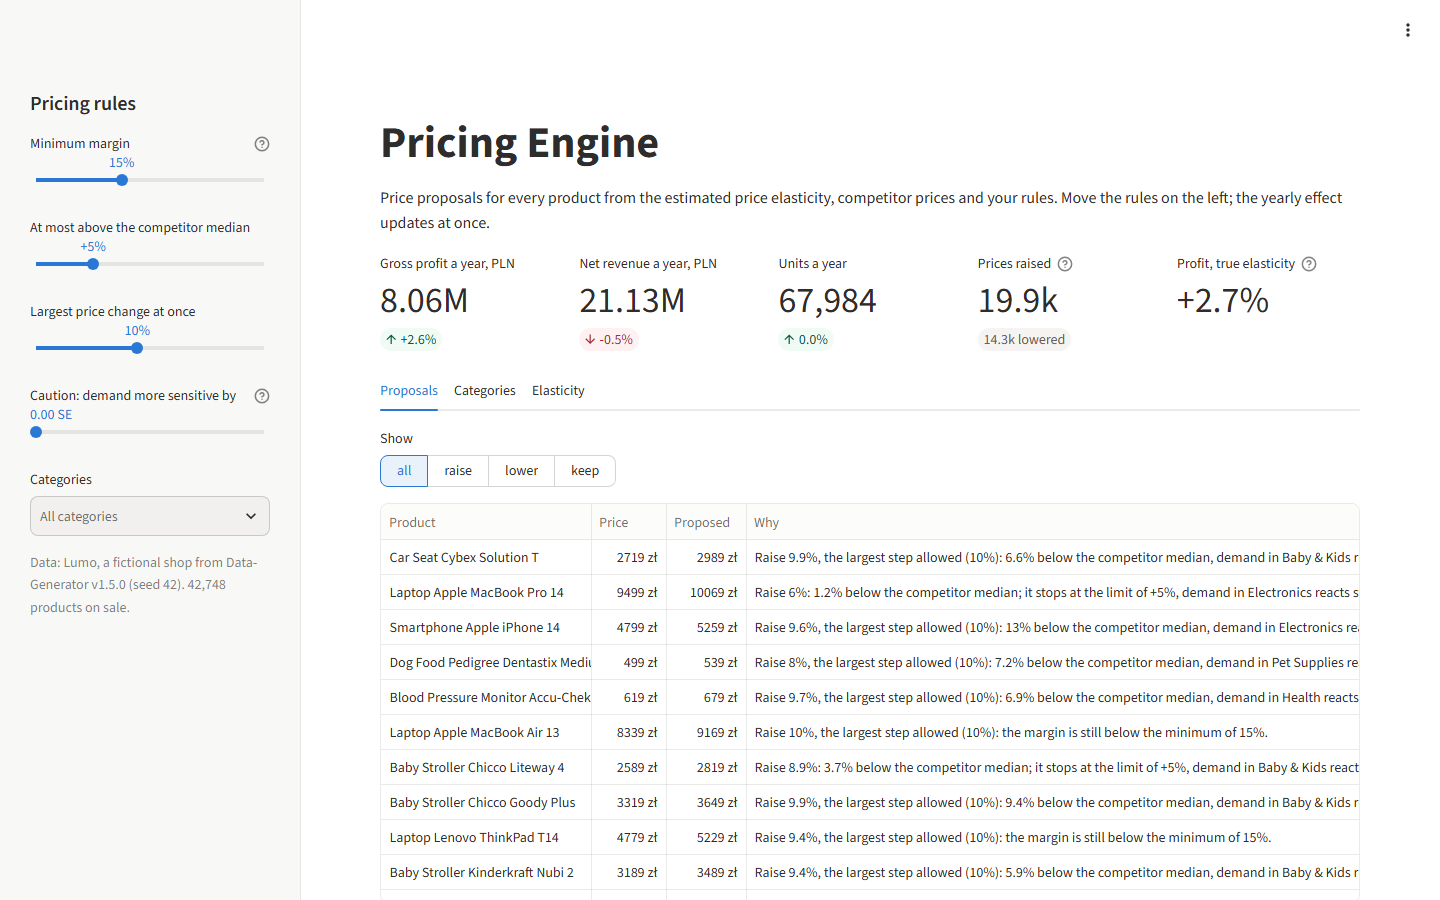
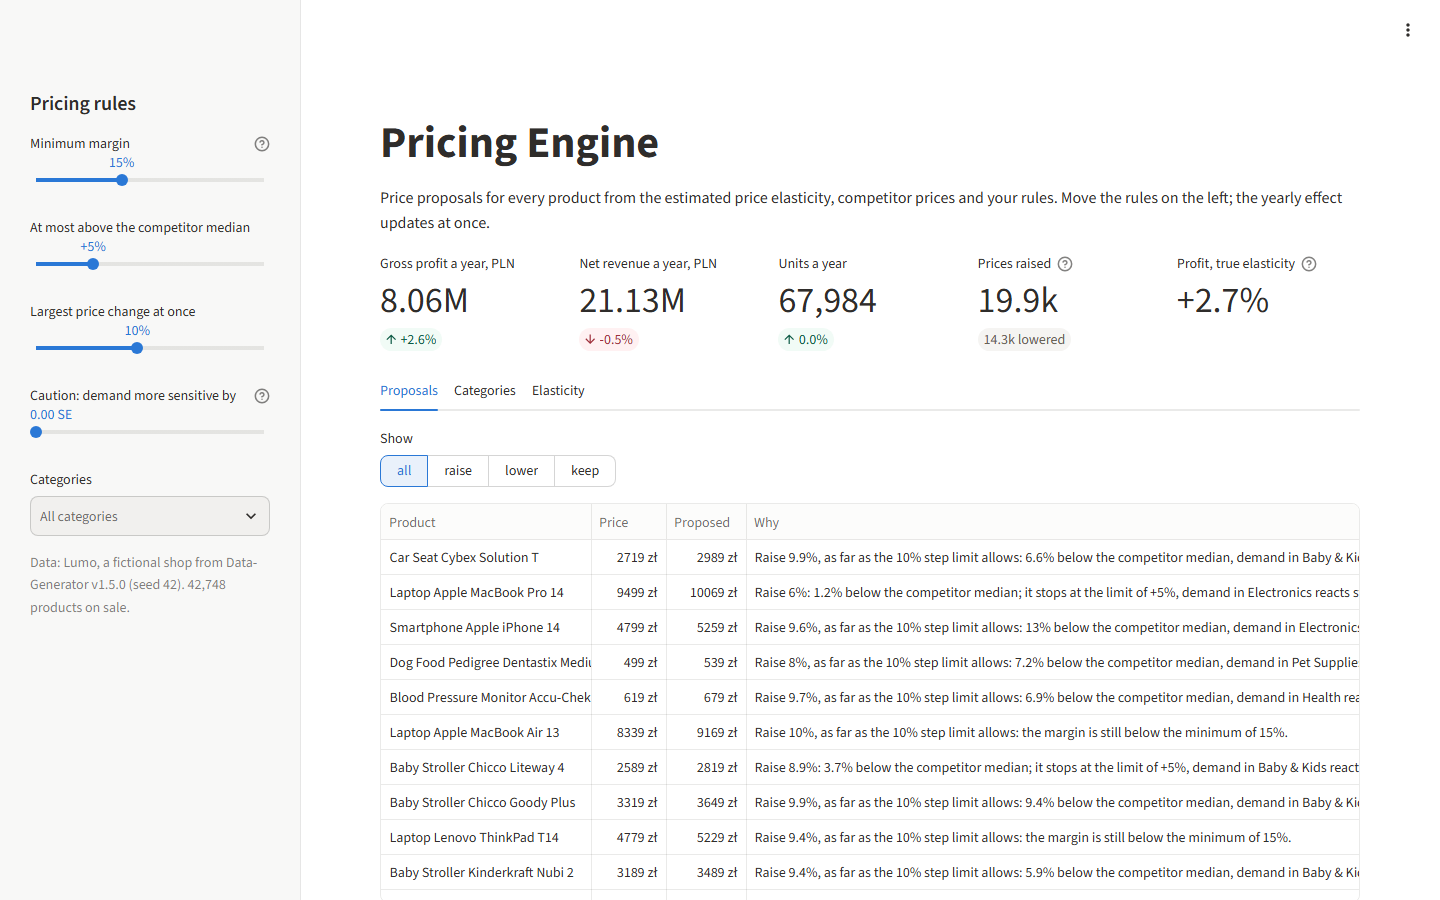
Label step-limited proposals correctly and keep shrinkage finite without a signal

diff --git a/scripts/readme_blocks.py b/scripts/readme_blocks.py
@@ -46,6 +46,10 @@ def blocks(lang, fmt, shop, table, snap, proposals, frame, truth, spread, by_cat
     negative = [cat(c) for c in facts["categories"]["negative"]]
     t = table.set_index("category")
     misses = e["misses"]
+    changed = int(base["raise"] + base["lower"])
+    gap = abs(base["profit_change"] - truth["profit_change"])
+    shown = misses + [c for c in ("Clothing", "Beauty") if c not in misses]
+    others = e["n"] - len(shown)
 
     def miss_list() -> str:
         return ", ".join(f"{cat(c)} ({n(t.loc[c, 'elasticity'], 2)} {'zamiast' if pl else 'vs'} "
@@ -54,8 +58,9 @@ def blocks(lang, fmt, shop, table, snap, proposals, frame, truth, spread, by_cat
     out: dict[str, str] = {}
     if pl:
         out["result"] = (
-            f"**Wynik.** Silnik proponuje nową cenę dla {n(total)} produktów; w scenariuszu bazowym roczny zysk "
-            f"brutto rośnie o {pct(base['profit_change'])} przy {pct(base['revenue_change'])} obrotu. "
+            f"**Wynik.** Silnik sprawdza ceny {n(total)} produktów i zmienia {n(changed)} z nich; w scenariuszu "
+            f"bazowym roczny zysk brutto rośnie o {pct(base['profit_change'])} przy {pct(base['revenue_change'])} "
+            f"obrotu. "
             f"Przeliczenie tych samych cen z prawdziwą elastycznością daje {pct(truth['profit_change'])}, "
             f"a szacunek elastyczności trafia w prawdę w {e['hits']} z {e['n']} kategorii.")
         out["summary"] = (
@@ -101,15 +106,16 @@ def blocks(lang, fmt, shop, table, snap, proposals, frame, truth, spread, by_cat
             f"![Najwięcej zyskuje {cat(facts['categories']['top'])}](docs/img/categories.png)")
         out["verdicts"] = (
             f"Elastyczność trafia w prawdę w {e['hits']} z {e['n']} kategorii, a zysk scenariusza bazowego "
-            f"przewidziany z danych ({pct(base['profit_change'])}) zgadza się z zyskiem przy prawdziwej elastyczności "
+            f"przewidziany z danych ({pct(base['profit_change'])}) "
+            f"{'zgadza się z zyskiem' if gap <= 0.005 else 'różni się od zysku'} przy prawdziwej elastyczności "
             f"({pct(truth['profit_change'])}).\n\n"
             f"| Pytanie | Odpowiedź z danych | Prawda | Ocena |\n|---|---|---|---|\n"
             + "".join(
                 f"| Elastyczność: {cat(c)} | {n(r.elasticity, 2)} "
                 f"[{n(r.elasticity - 1.645 * r.elasticity_se, 2)}; {n(r.elasticity + 1.645 * r.elasticity_se, 2)}] | "
                 f"{n(r.true_elasticity, 2)} | {'chybione' if c in misses else 'trafione'} |\n"
-                for c, r in t.iterrows() if c in misses or c in ("Clothing", "Beauty"))
-            + f"| Pozostałe {e['n'] - len(misses) - 2} kategorii | w przedziale | – | trafione |\n"
+                for c, r in t.loc[shown].iterrows())
+            + f"| Pozostałe {others} kategorii | w przedziale | – | trafione |\n"
             f"| Zmiana zysku, scenariusz bazowy | {pct(base['profit_change'])} [{pct(low)}; {pct(high)}] | "
             f"{pct(truth['profit_change'])} | "
             f"{'trafione' if low <= truth['profit_change'] <= high else 'chybione, poza przedziałem'} |\n"
@@ -118,9 +124,10 @@ def blocks(lang, fmt, shop, table, snap, proposals, frame, truth, spread, by_cat
             f"{n(abs(base['revenue_change'] - truth['revenue_change']) * 100, 1)} pkt proc. |")
     else:
         out["result"] = (
-            f"**Result.** The engine proposes a new price for {n(total)} products; in the base scenario yearly gross "
-            f"profit grows by {pct(base['profit_change'])} at {pct(base['revenue_change'])} revenue. The same prices "
-            f"judged with the true elasticity give {pct(truth['profit_change'])}, and the elasticity estimate hits the "
+            f"**Result.** The engine checks the prices of {n(total)} products and changes {n(changed)}; in the base "
+            f"scenario yearly gross profit grows by {pct(base['profit_change'])} at {pct(base['revenue_change'])} "
+            f"revenue. The same prices judged with the true elasticity give {pct(truth['profit_change'])}, "
+            f"and the elasticity estimate hits the "
             f"truth in {e['hits']} of {e['n']} categories.")
         out["summary"] = (
             f"- **What worked:** the profit predicted from the data ({pct(base['profit_change'])}) is "
@@ -168,15 +175,16 @@ def blocks(lang, fmt, shop, table, snap, proposals, frame, truth, spread, by_cat
             f"![{cat(facts['categories']['top'])} gains the most](docs/img/categories.png)")
         out["verdicts"] = (
             f"The elasticity hits the truth in {e['hits']} of {e['n']} categories, and the base profit predicted from "
-            f"the data ({pct(base['profit_change'])}) matches the profit with the true elasticity "
+            f"the data ({pct(base['profit_change'])}) {'matches' if gap <= 0.005 else 'differs from'} the profit with "
+            f"the true elasticity "
             f"({pct(truth['profit_change'])}).\n\n"
             f"| Question | Answer from the data | Truth | Verdict |\n|---|---|---|---|\n"
             + "".join(
                 f"| Elasticity: {c} | {n(r.elasticity, 2)} "
                 f"[{n(r.elasticity - 1.645 * r.elasticity_se, 2)}, {n(r.elasticity + 1.645 * r.elasticity_se, 2)}] | "
                 f"{n(r.true_elasticity, 2)} | {'miss' if c in misses else 'hit'} |\n"
-                for c, r in t.iterrows() if c in misses or c in ("Clothing", "Beauty"))
-            + f"| Other {e['n'] - len(misses) - 2} categories | inside the interval | – | hit |\n"
+                for c, r in t.loc[shown].iterrows())
+            + f"| Other {others} categories | inside the interval | – | hit |\n"
             f"| Profit change, base scenario | {pct(base['profit_change'])} [{pct(low)}, {pct(high)}] | "
             f"{pct(truth['profit_change'])} | "
             f"{'hit' if low <= truth['profit_change'] <= high else 'miss, outside the interval'} |\n"

diff --git a/src/pricing_engine/engine.py b/src/pricing_engine/engine.py
@@ -157,11 +157,14 @@ def propose(table: pd.DataFrame, rules: Rules = Rules()) -> pd.DataFrame:
     lower = candidates < best[:, None] - 0.5
     up = np.where(higher.any(axis=1), higher.argmax(axis=1), candidates.shape[1] - 1)
     down = np.where(lower.any(axis=1), candidates.shape[1] - 1 - lower[:, ::-1].argmax(axis=1), 0)
+    # no allowed price: the margin blocks the market limit only if every price ending in 9 above the floor passes
+    # the cap; otherwise the step (with the price endings) keeps the price from reaching the market
+    lowest_above_floor = np.where(above_floor, candidates, np.inf).min(axis=1)
     binding = np.select(
-        [~feasible & no_floor, ~feasible & (cap < low_step) & (floor < low_step), ~feasible,
+        [~feasible & no_floor, ~feasible & (lowest_above_floor > cap + tolerance), ~feasible,
          (unconstrained > best) & ~under_cap[rows, up], (unconstrained > best) & ~in_step[rows, up],
          (unconstrained < best) & ~above_floor[rows, down], (unconstrained < best) & ~in_step[rows, down]],
-        ["margin_conflict", "step_down", "market_conflict", "market_cap", "step_up", "margin_floor", "step_down"],
+        ["margin_conflict", "market_conflict", "step_down", "market_cap", "step_up", "margin_floor", "step_down"],
         "profit_optimum")
 
     new_profit, new_units = _profit(best, current, units, elasticity, vat, discount, cost)
@@ -207,12 +210,14 @@ def _reason(row, rules: Rules) -> str:
               f"(elasticity {row.elasticity:.1f})")
     margin, limit, step = _pct(rules.min_margin), f"+{_pct(rules.max_above_market)}", _pct(rules.max_step)
     head = f"{'Raise' if row.action == 'raise' else 'Lower'} {_pct(row.change)}"
+    above_limit = row.offers > 0 and row.index_before > 1 + rules.max_above_market + 1e-9
+    over_limit = f", more than the limit of {limit}" if above_limit else ""
     templates = {
         ("keep", "profit_optimum"): f"Keep: the current price already earns the most; {position}, {demand}.",
         ("keep", "market_cap"): f"Keep: {position}; a higher price would pass the limit of {limit}.",
         ("keep", "step_up"): f"Keep: {position}, but the next price ending in 9 is a bigger step than {step}.",
-        ("keep", "step_down"): f"Keep: {position}, more than the limit of {limit}, but the next price ending in 9 "
-                               f"is a bigger step than {step}.",
+        ("keep", "step_down"): f"Keep: {position}{over_limit}, but the next lower price ending in 9 is a bigger "
+                               f"step than {step}.",
         ("keep", "margin_floor"): f"Keep: a lower price would break the minimum margin of {margin}.",
         ("keep", "market_conflict"): f"Keep: {position}, but a lower price would break the minimum margin of "
                                      f"{margin}.",
@@ -220,16 +225,17 @@ def _reason(row, rules: Rules) -> str:
                                      f"in 9 is a bigger step than {step}.",
         ("raise", "profit_optimum"): f"{head}: the price with the highest expected profit; {position}, {demand}.",
         ("raise", "market_cap"): f"{head}: {position}; it stops at the limit of {limit}, {demand}.",
-        ("raise", "step_up"): f"{head}, the largest step allowed ({step}): {position}, {demand}.",
+        ("raise", "step_up"): f"{head}, as far as the {step} step limit allows: {position}, {demand}.",
         ("raise", "market_conflict"): f"{head} to reach the minimum margin of {margin}, although this puts it "
                                       f"{_pct(row.index_after - 1)} {'above' if row.index_after > 1 else 'below'} "
                                       f"the competitor median.",
-        ("raise", "margin_conflict"): f"{head}, the largest step allowed ({step}): the margin is still below the "
+        ("raise", "margin_conflict"): f"{head}, as far as the {step} step limit allows: the margin is still below the "
                                       f"minimum of {margin}.",
         ("raise", "margin_floor"): f"{head} to reach the minimum margin of {margin}; {position}.",
         ("lower", "profit_optimum"): f"{head}: the price with the highest expected profit; {position}, {demand}.",
         ("lower", "market_cap"): f"{head}: {position}, more than the limit of {limit}.",
-        ("lower", "step_down"): f"{head}, the largest step allowed ({step}): {position}.",
+        ("lower", "step_down"): f"{head}, as far as the {step} step limit allows: "
+                                f"{position}{over_limit or ', ' + demand}.",
         ("lower", "market_conflict"): f"{head}: {position}; the minimum margin of {margin} stops it above the "
                                       f"limit of {limit}.",
         ("lower", "margin_floor"): f"{head}: {demand}; the minimum margin of {margin} stops it here.",

diff --git a/src/pricing_engine/elasticity.py b/src/pricing_engine/elasticity.py
@@ -112,6 +112,16 @@ def shrink(estimate: np.ndarray, se: np.ndarray):
     DerSimonian-Laird estimator. Returns posterior means and standard deviations.
     """
     estimate, se = np.asarray(estimate, float), np.asarray(se, float)
+    known = np.isfinite(estimate) & np.isfinite(se) & (se > 0)
+    if not known.all():
+        # a category without any signal gets the pooled result of the others
+        posterior, posterior_se = np.full_like(estimate, np.nan), np.full_like(se, np.nan)
+        if known.any():
+            posterior[known], posterior_se[known] = shrink(estimate[known], se[known])
+            weight = 1 / se[known] ** 2
+            posterior[~known] = np.sum(weight * estimate[known]) / weight.sum()
+            posterior_se[~known] = 1 / np.sqrt(weight.sum())
+        return posterior, posterior_se
     weight = 1 / se**2
     mean = np.sum(weight * estimate) / weight.sum()
     q = np.sum(weight * (estimate - mean) ** 2)

diff --git a/tests/test_engine.py b/tests/test_engine.py
@@ -169,3 +169,17 @@ def test_a_competitor_promotion_counts_at_the_regular_price():
     assert result.loc[1, "competitor_min"] == 90
     assert result.loc[1, "competitor_median"] == 95
     assert result.loc[1, "offers"] == 2
+
+
+def test_step_and_price_endings_block_the_market_not_the_margin():
+    # cap 62.99 is above the step limit 62.1, but the only lower price ending in 9 (59) is a bigger step
+    row = run(price=69, cost=20, elasticity=1.2, market=59.99)
+    assert row.action == "keep"
+    assert row.binding == "step_down"
+    assert "minimum margin" not in row.reason
+    assert "more than the limit of +5%" in row.reason
+
+
+def test_margin_above_the_market_limit_is_a_market_conflict():
+    row = run(price=999, cost=700, elasticity=1.2, market=900)
+    assert row.binding == "market_conflict"

diff --git a/tests/test_elasticity.py b/tests/test_elasticity.py
@@ -97,3 +97,9 @@ def test_price_periods_counts_lines_in_each_period():
     assert periods["valid_to"].max() == pd.Timestamp("2023-01-12")
     # 2023-01-02 (one line, pool 1), 2023-01-07 (one line, pool 1), 2023-01-12 (two lines, pool 1 + 3)
     assert periods["exposure"].tolist() == pytest.approx([1.0, 1.0 + 0.5, 0.5])
+
+
+def test_shrink_gives_a_category_without_signal_the_pooled_mean():
+    posterior, posterior_se = shrink(np.array([1.0, 1.4, np.nan]), np.array([0.1, 0.1, np.nan]))
+    assert np.isfinite(posterior).all() and np.isfinite(posterior_se).all()
+    assert posterior[2] == pytest.approx(1.2)
